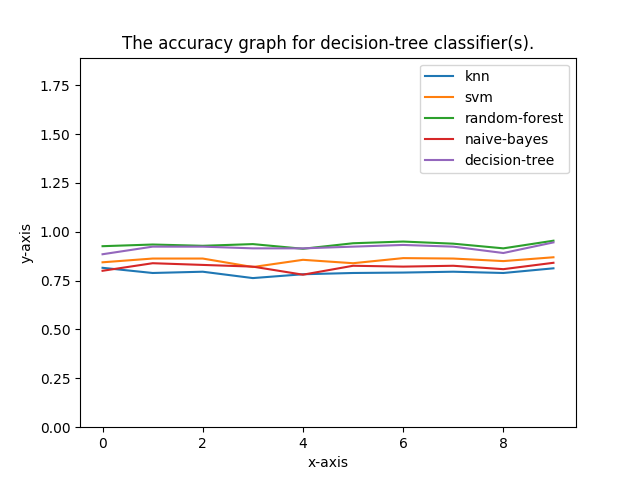
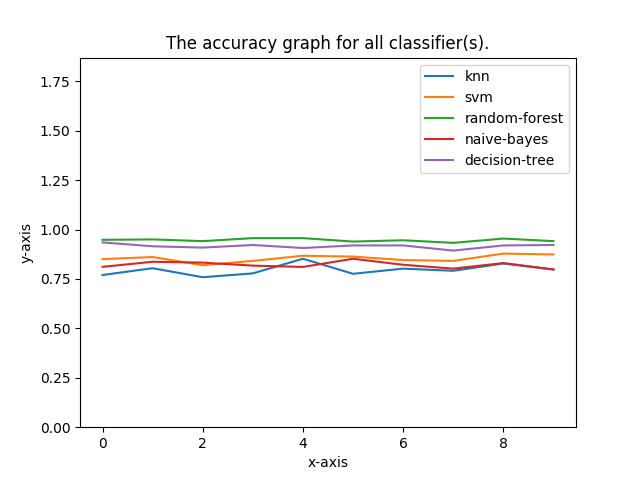
update figures

diff --git a/spam-classifier.py b/spam-classifier.py
@@ -119,5 +119,5 @@ if __name__ == "__main__":
         all_accuracies_list,
         y_labels=all_labels,
         title='The accuracy graph for {} classifier(s).'.format(
-            current_classifier)
+            args["classifier"])
     )
